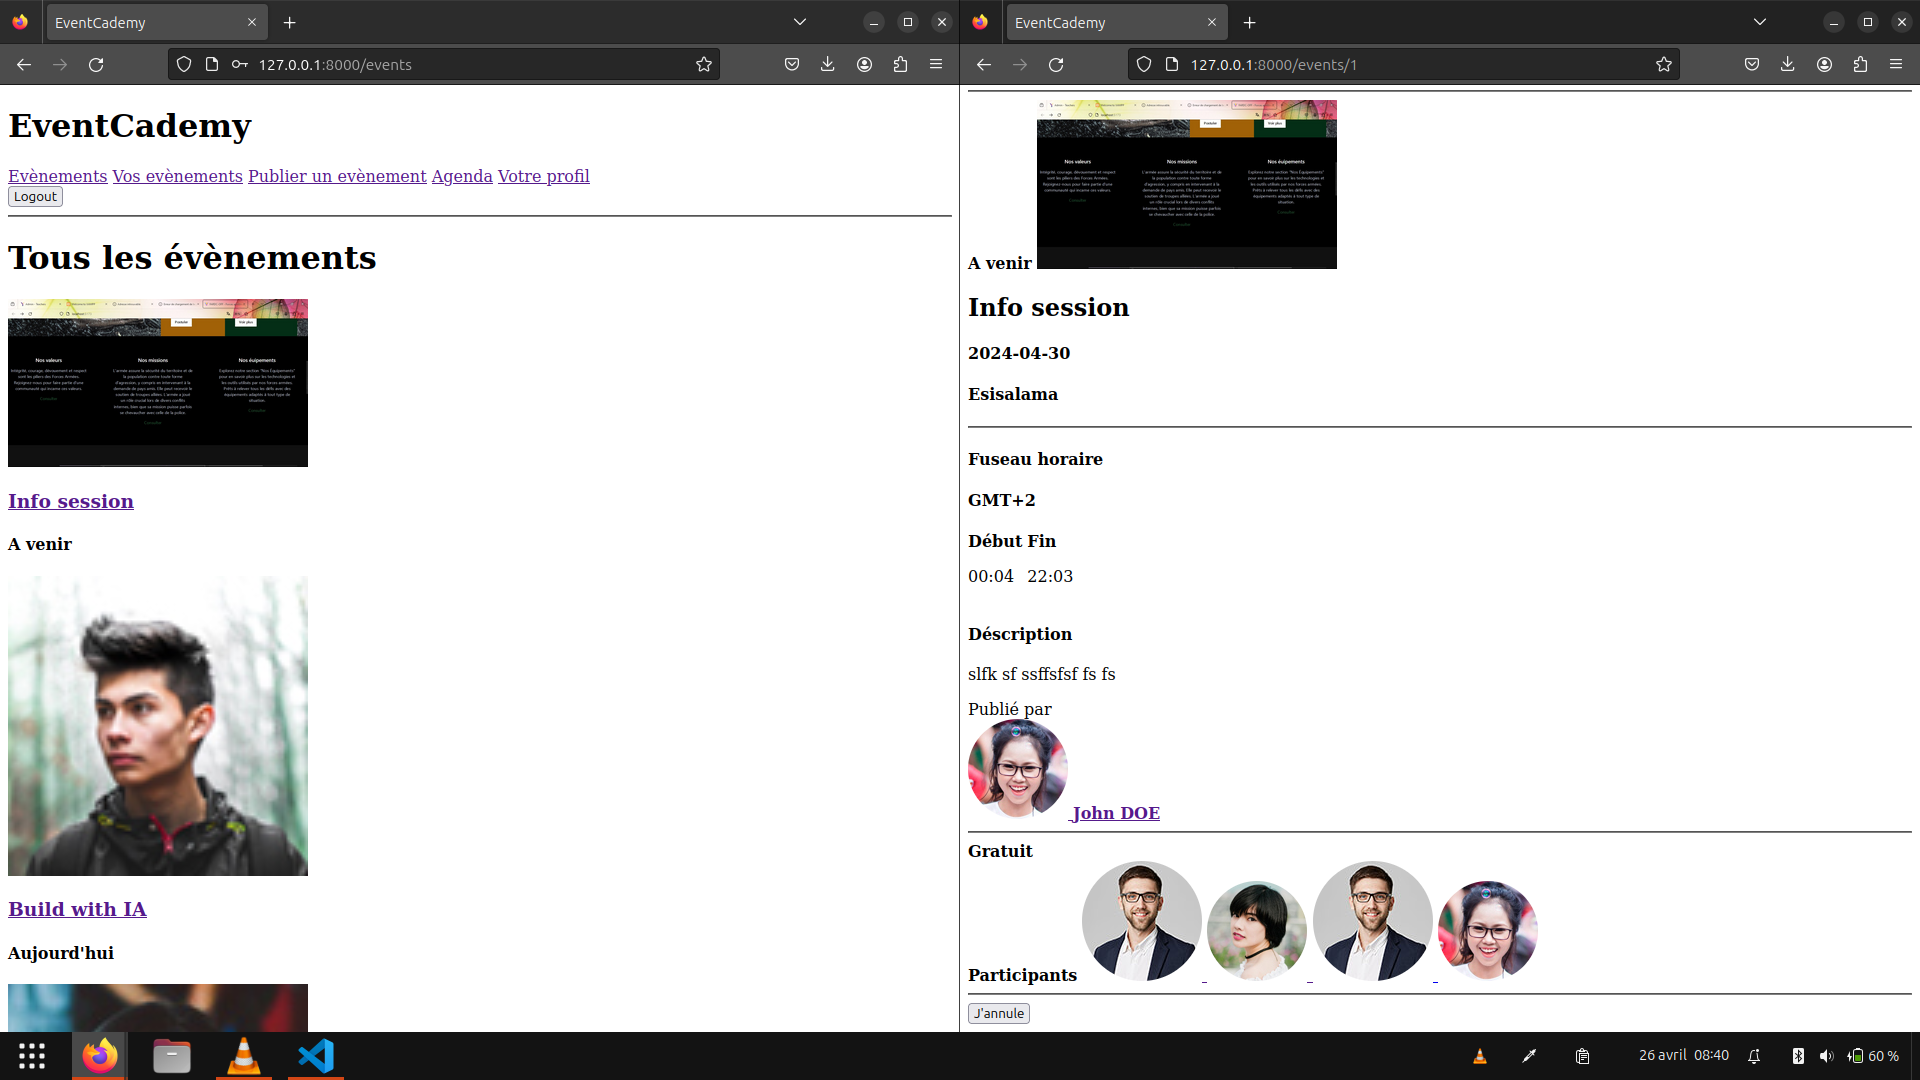
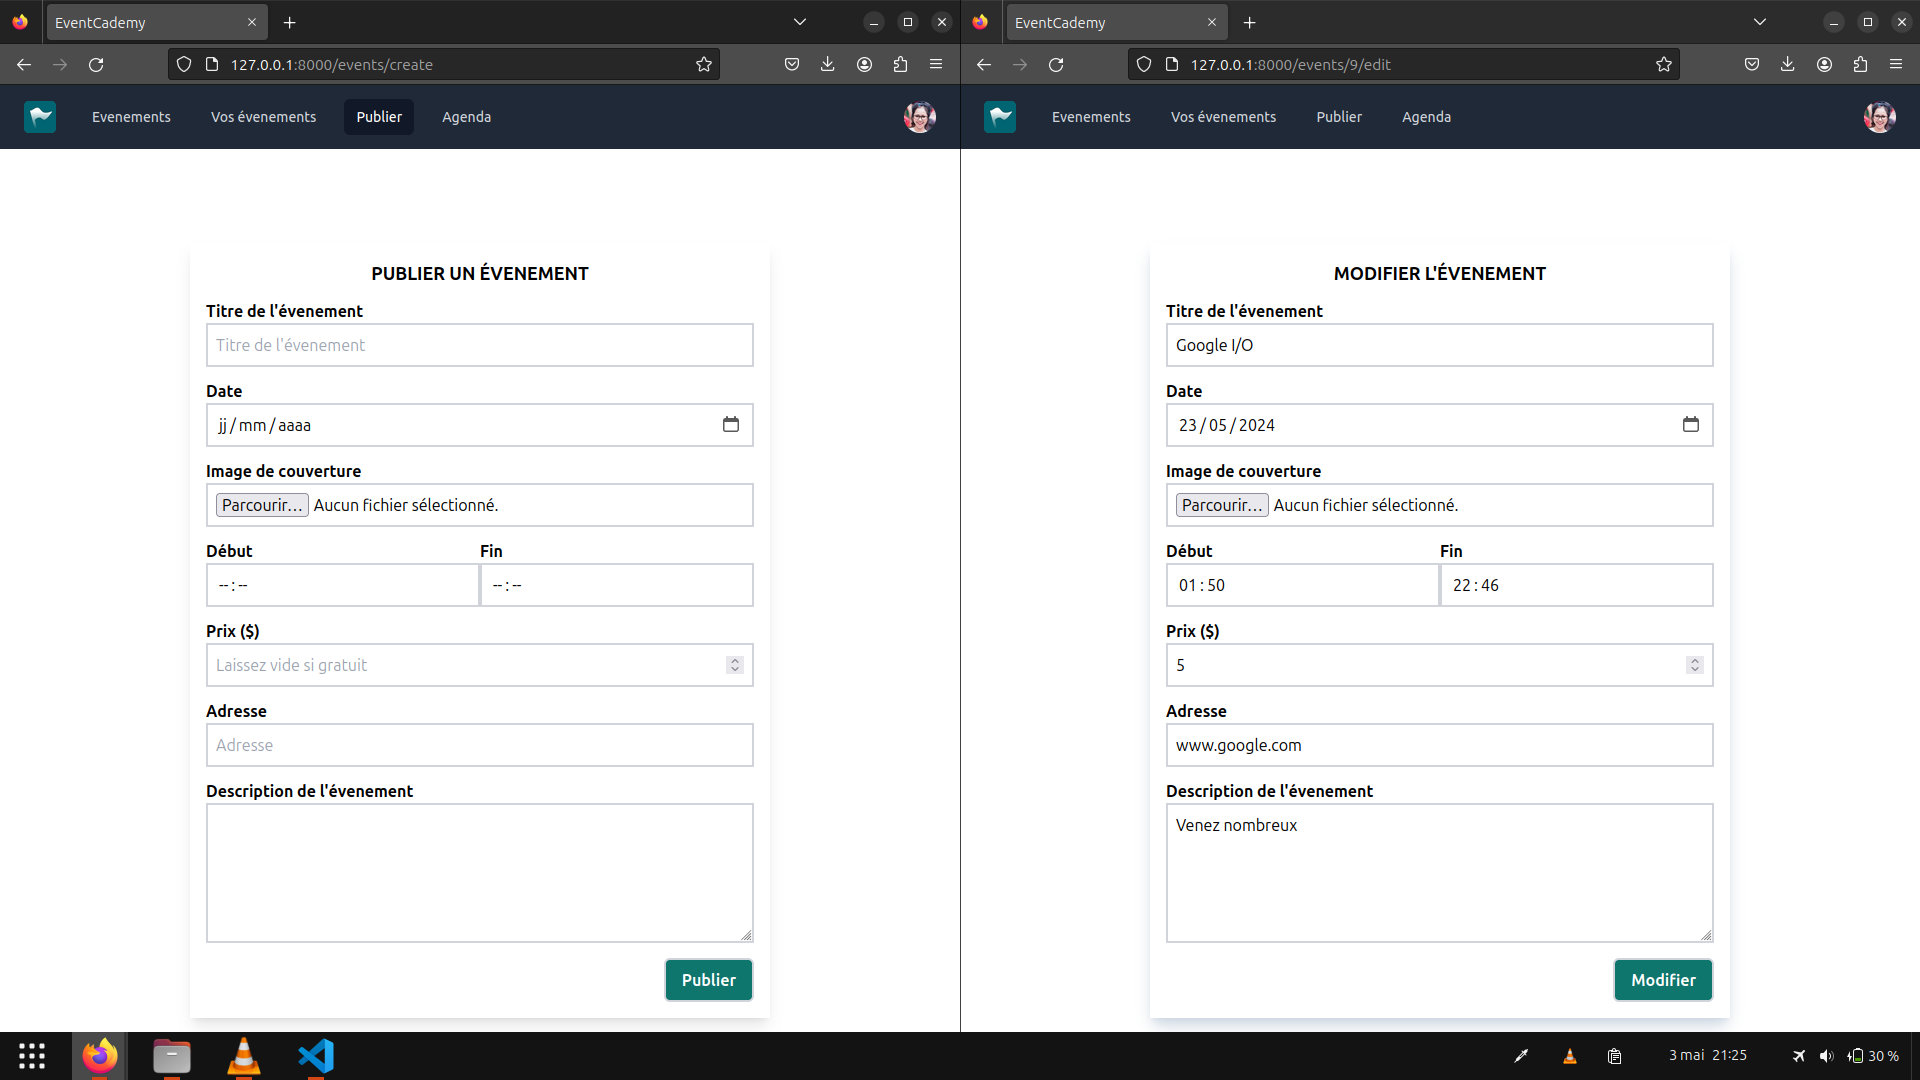
Frontend for Event Editing and Publishing

diff --git a/resources/views/events/edit.blade.php b/resources/views/events/edit.blade.php
@@ -1,18 +1,32 @@
 <x-auth>
-    <h1>Modifier l'évenement</h1>
-
-    <x-form action="{{ route('events.update', $event) }}" method="put">
-
-        <x-input-with-label name="cover" text="Image de couverture" type="file" nullable />
-        <x-input-with-label name="title" text="Titre de l'évenement" value="{{ $event->title }}" />
-        <x-input-with-label name="date" text="Date" type="date" value="{{ $event->date }}" />
-        <x-input-with-label name="start_at" text="Début" type="time" value="{{ $event->start_at }}" />
-        <x-input-with-label name="end_at" text="Fin" type="time" value="{{ $event->end_at }}" />
-        <x-input-with-label name="price" text="Prix" type="number" value="{{ $event->price }}" nullable />
-        <x-input-with-label name="location" text="Adresse" value="{{ $event->location }}" />
+    <div class="flex flex-col items-center justify-center h-screen">
         
-        <x-textarea-with-label name="description" text="Description de l'évenement" value="{{ $event->description }}" type="number" nullable/>
+        <div class="shadow-lg shadow-slate-300 p-4">
 
-        <button type="submit">Publier</button>
-    </x-form>
+            <h1 class="font-bold text-center text-lg uppercase mb-3">Modifier l'évenement</h1>
+
+            <x-form action="{{ route('events.update', $event) }}" method="put">
+
+                <x-input-with-label name="title" text="Titre de l'évenement" value="{{ $event->title }}" />
+            
+                <x-input-with-label name="date" text="Date" type="date" value="{{ $event->date }}" />
+                <x-input-with-label name="cover" text="Image de couverture" type="file" nullable />
+                
+                <div class="grid grid-cols-2">
+                    <x-input-with-label name="start_at" text="Début" type="time" value="{{ $event->start_at }}" />
+                    <x-input-with-label name="end_at" text="Fin" type="time" value="{{ $event->end_at }}" />
+                </div>
+
+                <x-input-with-label name="price" text="Prix ($)" type="number" value="{{ $event->price }}" nullable />
+                <x-input-with-label name="location" text="Adresse" value="{{ $event->location }}" />
+            
+                <x-textarea-with-label name="description" text="Description de l'évenement" value="{{ $event->description }}"/>
+                
+                <div class="flex justify-end mt-3">
+                    <x-primary-button class="px-4">Modifier</x-primary-button>
+                </div>
+            </x-form>
+
+        </div>
+    </div>
 </x-auth>

diff --git a/resources/views/profile/edit.blade.php b/resources/views/profile/edit.blade.php
@@ -1,24 +1,32 @@
 <x-auth>
-    <h1>Editer mon profil</h1>
+    <div class="flex flex-col items-center h-screen">
 
-    <h3>Informations personnelles</h3>
-    <img src="{{ auth()->user()->getAvatar() }}" alt="Avatar de l'utilisateur">
+        <h1 class="font-bold text-2xl">Editer mon profil</h1>
 
-    <x-form action="{{ route('profile.update') }}" method="put">
-        <x-input-with-label name="avatar" type="file" text="Votre avatar" nullable/>
+        <img src="{{ auth()->user()->getAvatar() }}" alt="Avatar de l'utilisateur">
 
-        <x-input-with-label name="name" text="Votre nom complet" value="{{ auth()->user()->name }}" />
-        <x-input-with-label name="email" type="email" text="Votre e-mail" value="{{ auth()->user()->email }}" />
+        <x-form action="{{ route('profile.update') }}" method="put" class="shadow-lg shadow-slate-300 p-4">
 
-        <button type="submit">Enregistrer</button>
-    </x-form>
+            <h3 class="font-bold text-lg my-3">Informations personnelles</h3>
+            
+            <x-input-with-label name="avatar" type="file" text="Votre avatar" nullable/>
+            <x-input-with-label name="name" text="Votre nom complet" value="{{ auth()->user()->name }}" />
+            <x-input-with-label name="email" type="email" text="Votre e-mail" value="{{ auth()->user()->email }}" />
+            <x-primary-button>Enregistrer</x-primary-button>
 
-    <h3>Mot de passe</h3>
+        </x-form>
 
-    <x-form action="{{ route('profile.update-password') }}" method="put">
-        <x-input-with-label name="current_password" type="password" text="Mot de passe actuel" />
-        <x-input-with-label name="new_password" type="password" text="Nouveau mot de passe" />
 
-        <button type="submit">Enregistrer</button>
-    </x-form>
+        
+        <x-form action="{{ route('profile.update-password') }}" method="put" class="shadow-lg shadow-slate-300 p-4 mbs-5">
+
+            <h3 class="font-bold text-lg my-3">Mot de passe</h3>
+
+            <x-input-with-label name="current_password" type="password" text="Mot de passe actuel" />
+            <x-input-with-label name="new_password" type="password" text="Nouveau mot de passe" />
+            <x-primary-button>Enregistrer</x-primary-button>
+
+        </x-form>
+
+    </div>
 </x-auth>

diff --git a/resources/views/events/create.blade.php b/resources/views/events/create.blade.php
@@ -1,18 +1,34 @@
 <x-auth>
-    <h1>Ajouter un évenement</h1>
-
-    <x-form action="{{ route('events.store') }}">
-
-        <x-input-with-label name="cover" text="Image de couverture" type="file" />
-        <x-input-with-label name="title" text="Titre de l'évenement" />
-        <x-input-with-label name="date" text="Date" type="date" />
-        <x-input-with-label name="start_at" text="Début" type="time" />
-        <x-input-with-label name="end_at" text="Fin" type="time" />
-        <x-input-with-label name="price" text="Prix" type="number" placeholder="Laissez vide si gratuit" nullable />
-        <x-input-with-label name="location" text="Adresse" />
+    
+    <div class="flex flex-col items-center justify-center h-screen">
         
-        <x-textarea-with-label name="description" text="Description de l'évenement" type="number" nullable/>
+        <div class="shadow-lg p-4">
+            <h1 class="text-center text-lg uppercase font-bold mb-3">Publier un évenement</h1>
+            
+            <x-form action="{{ route('events.store') }}">
+            
+                <x-input-with-label name="title" text="Titre de l'évenement" />
+            
+                <x-input-with-label name="date" text="Date" type="date" />
+                <x-input-with-label name="cover" text="Image de couverture" type="file" />
+               
+                <div class="grid grid-cols-2">
+                    <x-input-with-label name="start_at" text="Début" type="time" />
+                    <x-input-with-label name="end_at" text="Fin" type="time" />
+                </div>
+            
+                <x-input-with-label name="price" text="Prix ($)" type="number" placeholder="Laissez vide si gratuit" nullable />
+                <x-input-with-label name="location" text="Adresse" />
+            
+                <x-textarea-with-label name="description" text="Description de l'évenement"/>
+                
+                <div class="flex justify-end mt-3">
+                    <x-primary-button class="px-4">Publier</x-primary-button>
+                </div>
+                
+            </x-form>
+        </div>
 
-        <button type="submit">Publier</button>
-    </x-form>
+    </div>
+
 </x-auth>

diff --git a/resources/views/components/navbar.blade.php b/resources/views/components/navbar.blade.php
@@ -42,7 +42,7 @@
                 <button type="button" class="relative flex rounded-full bg-gray-800 text-sm focus:outline-none focus:ring-2 focus:ring-white focus:ring-offset-2 focus:ring-offset-gray-800" id="user-menu-button" aria-expanded="false" aria-haspopup="true">
                     <span class="absolute -inset-1.5"></span>
                     <span class="sr-only">Open user menu</span>
-                    <img class="h-8 w-8 rounded-full" src="https://images.unsplash.com/photo-1472099645785-5658abf4ff4e?ixlib=rb-1.2.1&ixid=eyJhcHBfaWQiOjEyMDd9&auto=format&fit=facearea&facepad=2&w=256&h=256&q=80" alt="">
+                    <img class="h-8 w-8 rounded-full" src="{{ auth()->user()->getAvatar() }}" alt="">
                 </button>
             </div>
 

diff --git a/resources/views/components/input-with-label.blade.php b/resources/views/components/input-with-label.blade.php
@@ -10,8 +10,9 @@
 <div class="mb-3">
     <label for="{{ $name }}" class=" font-semibold">{{ $text }}</label>
 
-    <input type="{{ $type == null ? 'text' : $type }}" name="{{ $name }}" id="{{ $name }}" @required($nullable == null) value="{{ old($name) ? old($name) : $value }}" placeholder="{{ $placeholder }}"
-        {{ $attributes->merge(['class' => 'border-2 border-gray-300 rounds p-2 w-full']) }}
+    <input type="{{ $type == null ? 'text' : $type }}" name="{{ $name }}" id="{{ $name }}" @required($nullable == null) value="{{ old($name) ? old($name) : $value }}" placeholder="{{ $placeholder == null ? $text : $placeholder }}"
+        {{ $attributes->merge(['class' => 'border-2 border-gray-300 p-2 w-full']) }}
+        min="0"
     >
 
     @error($name)

diff --git a/resources/views/components/textarea-with-label.blade.php b/resources/views/components/textarea-with-label.blade.php
@@ -2,17 +2,18 @@
     'name',
     'text',
     'type' => null,
-    'nullable' => null,
     'value' => null,
 ])
 
 <div>
-    <label for="{{ $name }}">{{ $text }}</label>
+    <label for="{{ $name }}" class="font-bold">{{ $text }}</label>
 
-    <textarea name="{{ $name }}" id="{{ $name }}" cols="30" rows="10" @required($nullable == null)>{{ old($name) ? old($name) : $value }}</textarea>
+    <textarea name="{{ $name }}" id="{{ $name }}" cols="30" rows="5"
+        {{ $attributes->merge(['class' => 'border-2 border-gray-300 rounds p-2 w-full']) }}
+    >{{ old($name) ? old($name) : $value }}</textarea>
 
     @error($name)
-        <p style="color:red;">
+        <p class="text-red-500">
             {{ $message }}
         </p>
     @enderror

diff --git a/app/Http/Controllers/EventController.php b/app/Http/Controllers/EventController.php
@@ -35,6 +35,11 @@ class EventController extends Controller
      */
     public function store(CreateEventRequest $request) : RedirectResponse
     {
+        // Check if submited ends time is bigger than starts time
+        if ($request->end_at <= $request->start_at) {
+            return back()->with('error', "L'heure de la fin doit être supérieure à celle du début");
+        }
+
         // Get all validated data
         $data = $request->validated();
 

diff --git a/resources/views/components/primary-button.blade.php b/resources/views/components/primary-button.blade.php
@@ -2,6 +2,6 @@
     'type' => 'submit',
 ])
 
-<button type="{{ $type }}" {{ $attributes->merge(['class' => 'bg-teal-700 hover:bg-teal-600 border-2 border-gray-300 rounded-md p-2 w-full font-bold']) }}>
+<button type="{{ $type }}" {{ $attributes->merge(['class' => 'bg-teal-700 hover:bg-teal-600 border-2 border-gray-300 text-white rounded-md p-2 font-bold']) }}>
     {{ $slot }}
 </button>

diff --git a/routes/web.php b/routes/web.php
@@ -6,9 +6,7 @@ use App\Http\Controllers\ProfileController;
 use App\Http\Controllers\ReservationController;
 use Illuminate\Support\Facades\Route;
 
-Route::get('/', function () {
-    return view('welcome');
-});
+Route::redirect('/','/events');
 
 Route::middleware(['auth'])->group(function () {
     Route::resource('events', EventController::class);

diff --git a/resources/views/auth/login.blade.php b/resources/views/auth/login.blade.php
@@ -7,6 +7,6 @@
     <x-input-with-label name="email" type="email" text="Votre e-mail" />
     <x-input-with-label name="password" type="password" text="Mot de passe" />
     
-    <x-primary-button>Se connecter</x-primary-button>
+    <x-primary-button class="w-full">Se connecter</x-primary-button>
     
 </x-auth-form>

diff --git a/resources/views/auth/register.blade.php b/resources/views/auth/register.blade.php
@@ -8,6 +8,6 @@
     <x-input-with-label name="email" type="email" text="Votre e-mail" />
     <x-input-with-label name="password" type="password" text="Mot de passe" />
 
-    <x-primary-button>S'inscrire</x-primary-button>
+    <x-primary-button class="w-full">S'inscrire</x-primary-button>
     
 </x-auth-form>

diff --git a/resources/views/components/form.blade.php b/resources/views/components/form.blade.php
@@ -3,7 +3,7 @@
     'method' => null,
 ])
 
-<form enctype="multipart/form-data" action="{{ $action }}" method="post">
+<form enctype="multipart/form-data" action="{{ $action }}" method="post" {{ $attributes }}>
     @csrf
 
     @method($method == null ?  'post' : $method)
